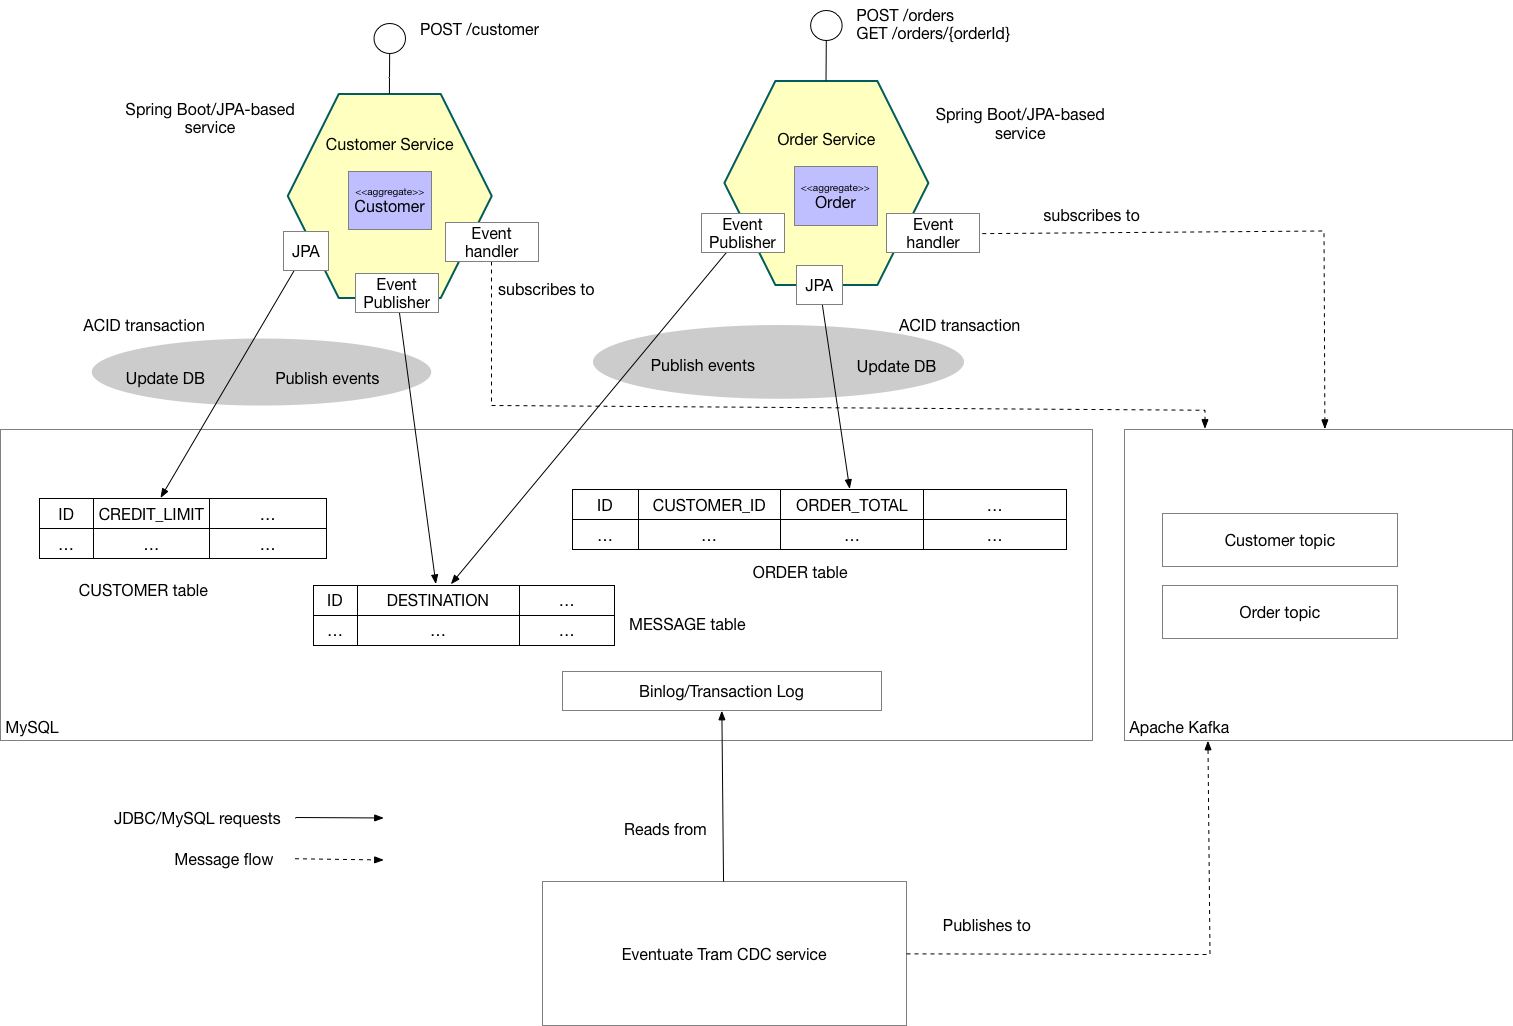
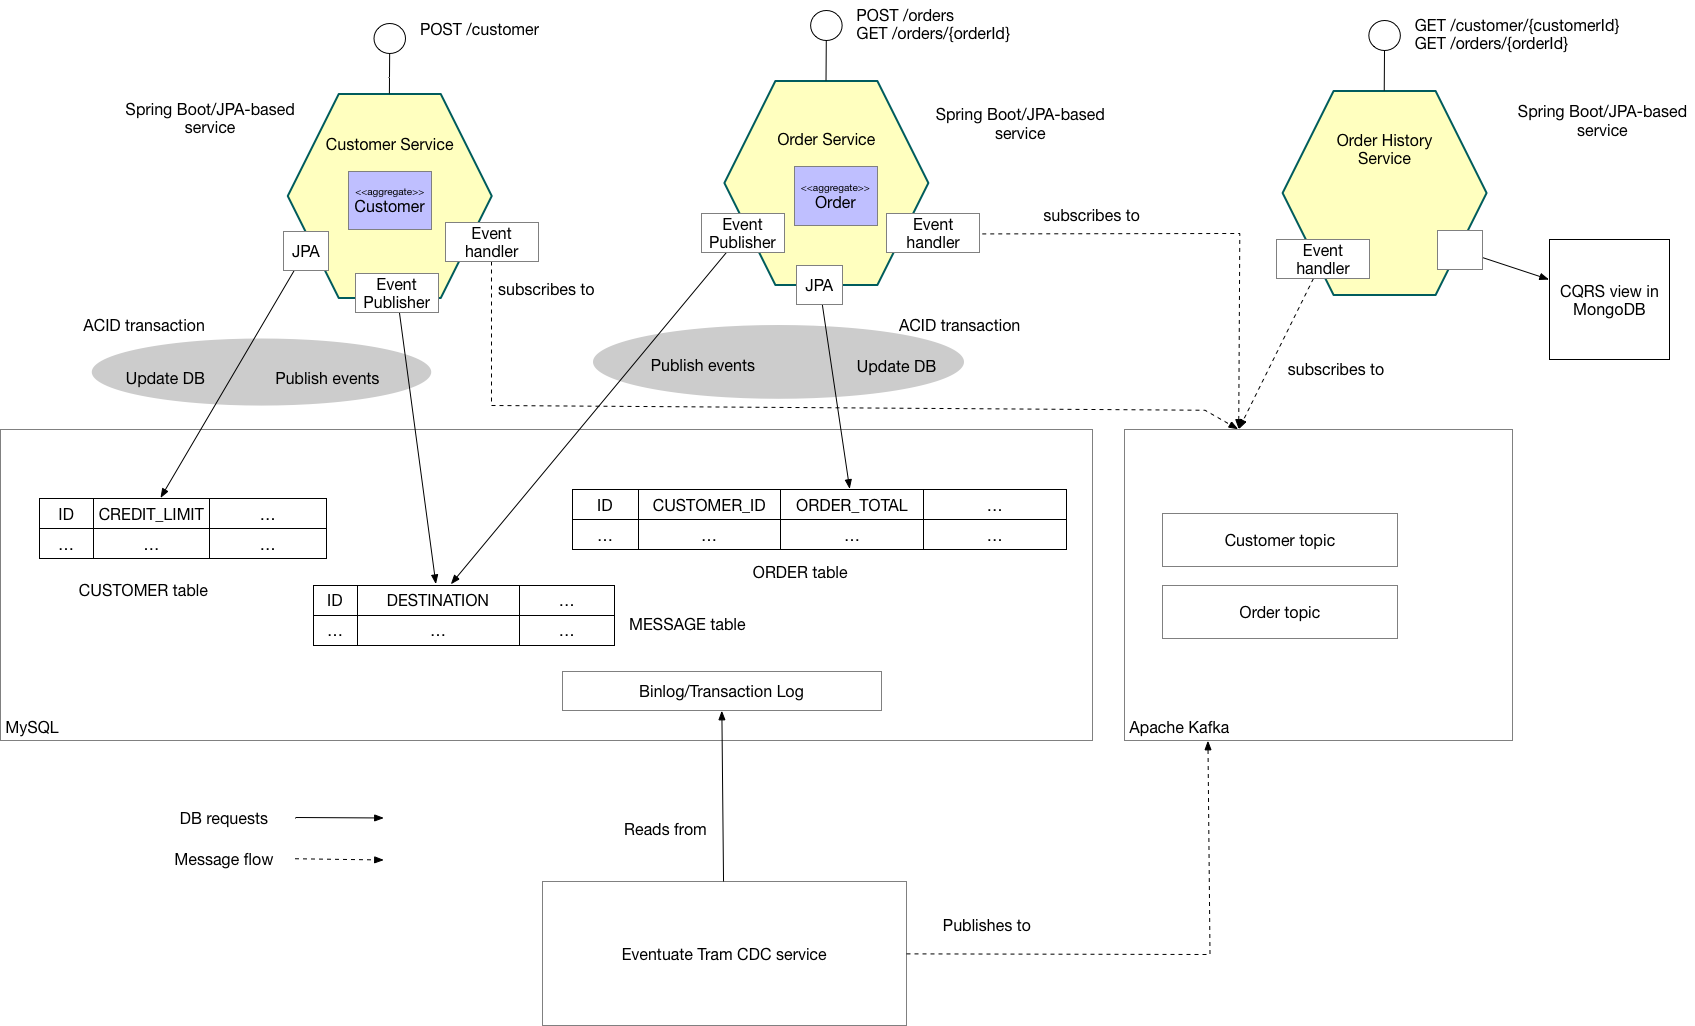
Misc cleanups including README

diff --git a/order-history-service/src/main/java/io/eventuate/examples/tram/ordersandcustomers/orderhistoryservice/OrderHistoryServiceMain.java b/order-history-service/src/main/java/io/eventuate/examples/tram/ordersandcustomers/orderhistoryservice/OrderHistoryServiceMain.java
@@ -1,7 +1,7 @@
-package io.eventuate.examples.tram.ordersandcustomers.orderhistoryviewservice;
+package io.eventuate.examples.tram.ordersandcustomers.orderhistoryservice;
 
 import io.eventuate.examples.tram.ordersandcustomers.orderhistory.backend.OrderHistoryViewBackendConfiguration;
-import io.eventuate.examples.tram.ordersandcustomers.orderhistoryviewservice.web.OrderHistoryViewWebConfiguration;
+import io.eventuate.examples.tram.ordersandcustomers.orderhistoryservice.web.OrderHistoryViewWebConfiguration;
 import org.springframework.boot.SpringApplication;
 import org.springframework.boot.autoconfigure.SpringBootApplication;
 import org.springframework.context.annotation.Import;

diff --git a/order-history-service/src/main/java/io/eventuate/examples/tram/ordersandcustomers/orderhistoryservice/web/customers/CustomerOrderHistoryController.java b/order-history-service/src/main/java/io/eventuate/examples/tram/ordersandcustomers/orderhistoryservice/web/customers/CustomerOrderHistoryController.java
@@ -1,4 +1,4 @@
-package io.eventuate.examples.tram.ordersandcustomers.orderhistoryviewservice.web.customers;
+package io.eventuate.examples.tram.ordersandcustomers.orderhistoryservice.web.customers;
 
 import io.eventuate.examples.tram.ordersandcustomers.orderhistory.common.CustomerView;
 import io.eventuate.examples.tram.ordersandcustomers.orderhistory.backend.CustomerViewRepository;

diff --git a/order-history-service/src/main/java/io/eventuate/examples/tram/ordersandcustomers/orderhistoryservice/web/orders/OrderViewController.java b/order-history-service/src/main/java/io/eventuate/examples/tram/ordersandcustomers/orderhistoryservice/web/orders/OrderViewController.java
@@ -1,4 +1,4 @@
-package io.eventuate.examples.tram.ordersandcustomers.orderhistoryviewservice.web.orders;
+package io.eventuate.examples.tram.ordersandcustomers.orderhistoryservice.web.orders;
 
 import io.eventuate.examples.tram.ordersandcustomers.orderhistory.backend.OrderViewRepository;
 import io.eventuate.examples.tram.ordersandcustomers.orderhistory.common.OrderView;

diff --git a/order-history-service/src/main/java/io/eventuate/examples/tram/ordersandcustomers/orderhistoryservice/web/OrderHistoryViewWebConfiguration.java b/order-history-service/src/main/java/io/eventuate/examples/tram/ordersandcustomers/orderhistoryservice/web/OrderHistoryViewWebConfiguration.java
@@ -1,4 +1,4 @@
-package io.eventuate.examples.tram.ordersandcustomers.orderhistoryviewservice.web;
+package io.eventuate.examples.tram.ordersandcustomers.orderhistoryservice.web;
 
 import io.eventuate.examples.tram.ordersandcustomers.commonswagger.CommonSwaggerConfiguration;
 import org.springframework.boot.autoconfigure.http.HttpMessageConverters;

diff --git a/order-history-common/src/main/java/io/eventuate/examples/tram/ordersandcustomers/orderhistory/common/OrderInfo.java b/order-history-common/src/main/java/io/eventuate/examples/tram/ordersandcustomers/orderhistory/common/OrderInfo.java
@@ -5,8 +5,8 @@ import io.eventuate.examples.tram.ordersandcustomers.commondomain.OrderState;
 
 public class OrderInfo {
 
-  private OrderState state;
   private Long orderId;
+  private OrderState state;
   private Money orderTotal;
 
 
